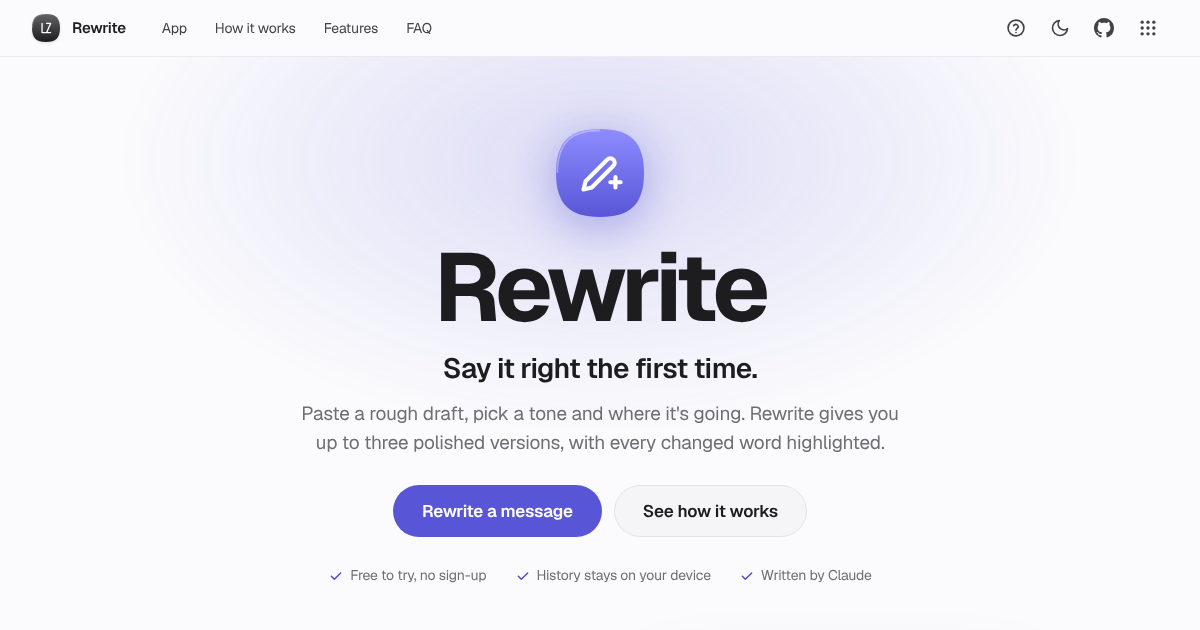
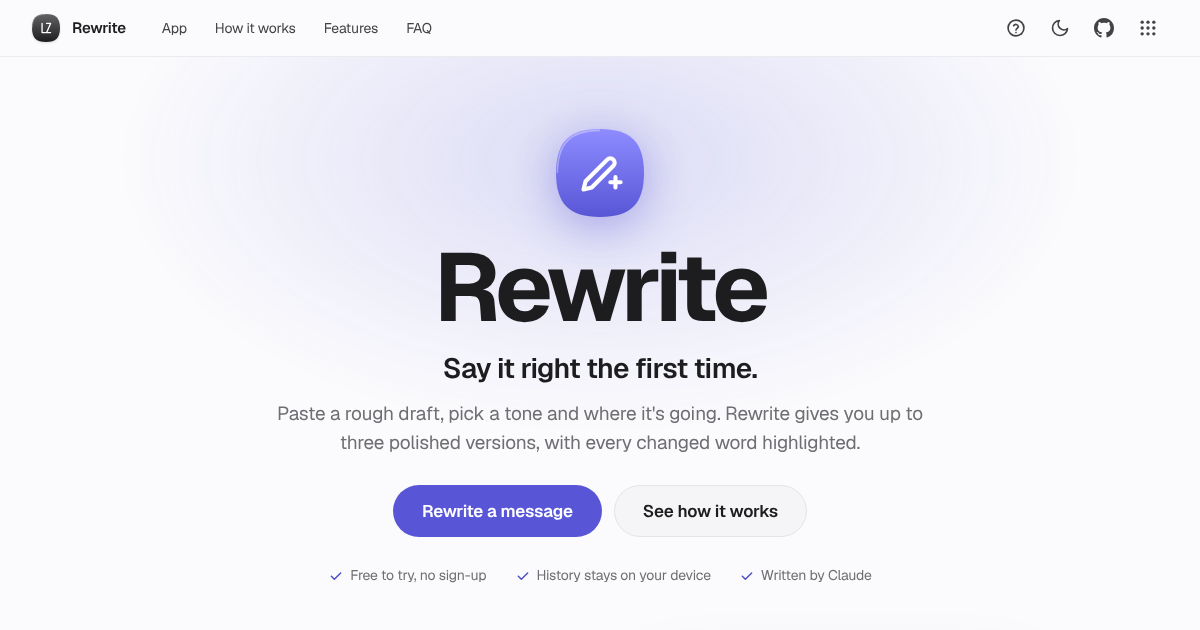
Kit update: tour starts when you reach the app; hero side padding on phones
Claude-Session: https://claude.ai/code/session_01JvUUbFp4LbvpG6c9yJrxdt

Changed region(s): [[0.2158, 0.6333, 0.7708, 0.7238]]

diff --git a/zl.js b/zl.js
@@ -142,7 +142,18 @@
   function tour(steps, opts) {
     tourSteps = steps; opts = opts || {};
     if (opts.autoStart !== false && !store.get("toured", false)) {
-      setTimeout(function () { if (!store.get("toured", false)) startTour(); }, opts.delay || 900);
+      // Start once the visitor reaches the app, so the hero is never skipped on first load.
+      var started = false;
+      var go = function () { if (started) return; started = true; setTimeout(function () { if (!store.get("toured", false) && !card) startTour(); }, opts.delay || 700); };
+      var target = document.getElementById("app");
+      if (!target || !("IntersectionObserver" in window)) { go(); return; }
+      var io = new IntersectionObserver(function (es) {
+        es.forEach(function (e) {
+          var enough = e.intersectionRect.height >= Math.min(160, innerHeight * 0.2) || e.intersectionRatio >= 0.35;
+          if (e.isIntersecting && enough) { io.disconnect(); go(); }
+        });
+      }, { threshold: [0, 0.05, 0.1, 0.15, 0.2, 0.35, 0.5, 0.75, 1] });
+      io.observe(target);
     }
   }
   function startTour() {

diff --git a/zl.css b/zl.css
@@ -78,7 +78,7 @@ a:hover{text-decoration:underline}
 .zl-icon{width:64px;height:64px;flex:none;filter:drop-shadow(0 1px 1px rgba(0,0,0,.12))}
 
 /* ---------- Hero ---------- */
-.zl-hero{position:relative;padding:72px 0 40px;text-align:center;overflow:clip}
+.zl-hero{position:relative;padding-top:72px;padding-bottom:40px;text-align:center;overflow:clip}
 .zl-hero::before{content:"";position:absolute;inset:-20% 10% auto;height:520px;background:radial-gradient(closest-side,color-mix(in oklab,var(--accent) 22%,transparent),transparent);filter:blur(30px);z-index:-1;opacity:.9}
 .zl-hero .zl-icon{width:88px;height:88px;margin:0 auto 22px;filter:drop-shadow(0 10px 24px color-mix(in oklab,var(--accent) 45%,transparent))}
 .zl-hero h1{font-size:clamp(48px,8vw,96px);line-height:1;font-weight:700;letter-spacing:-.045em;margin:0}
